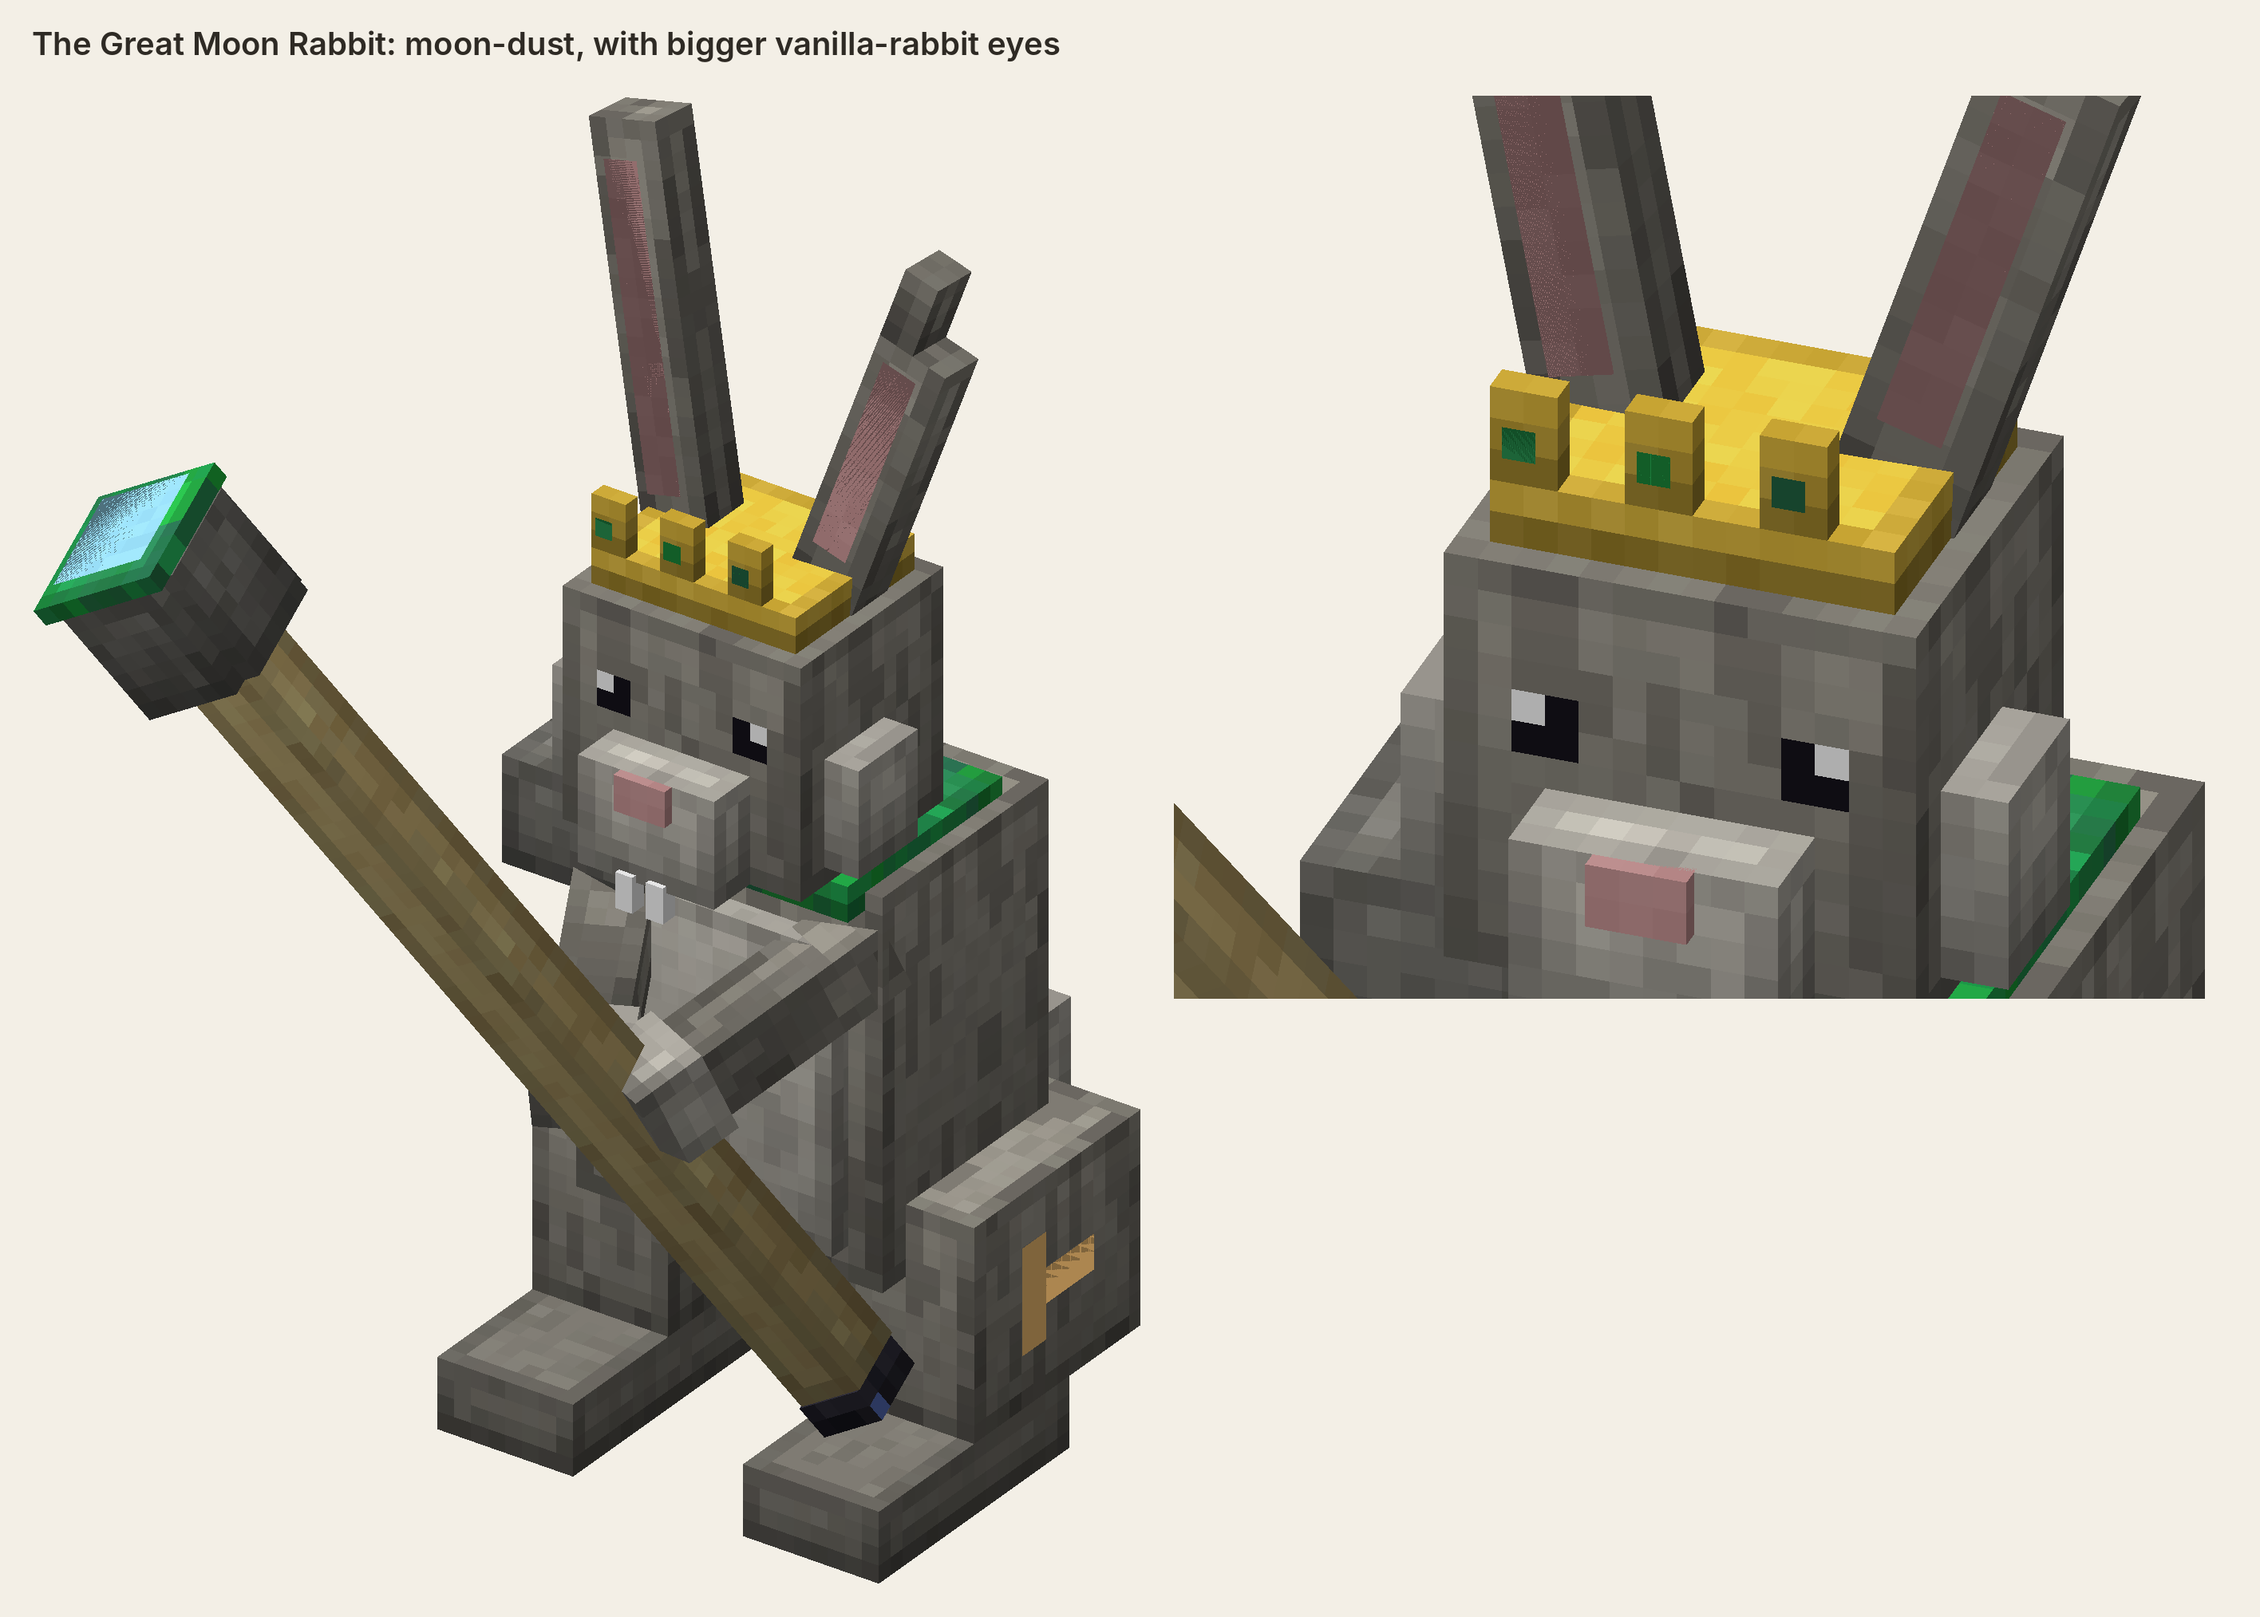
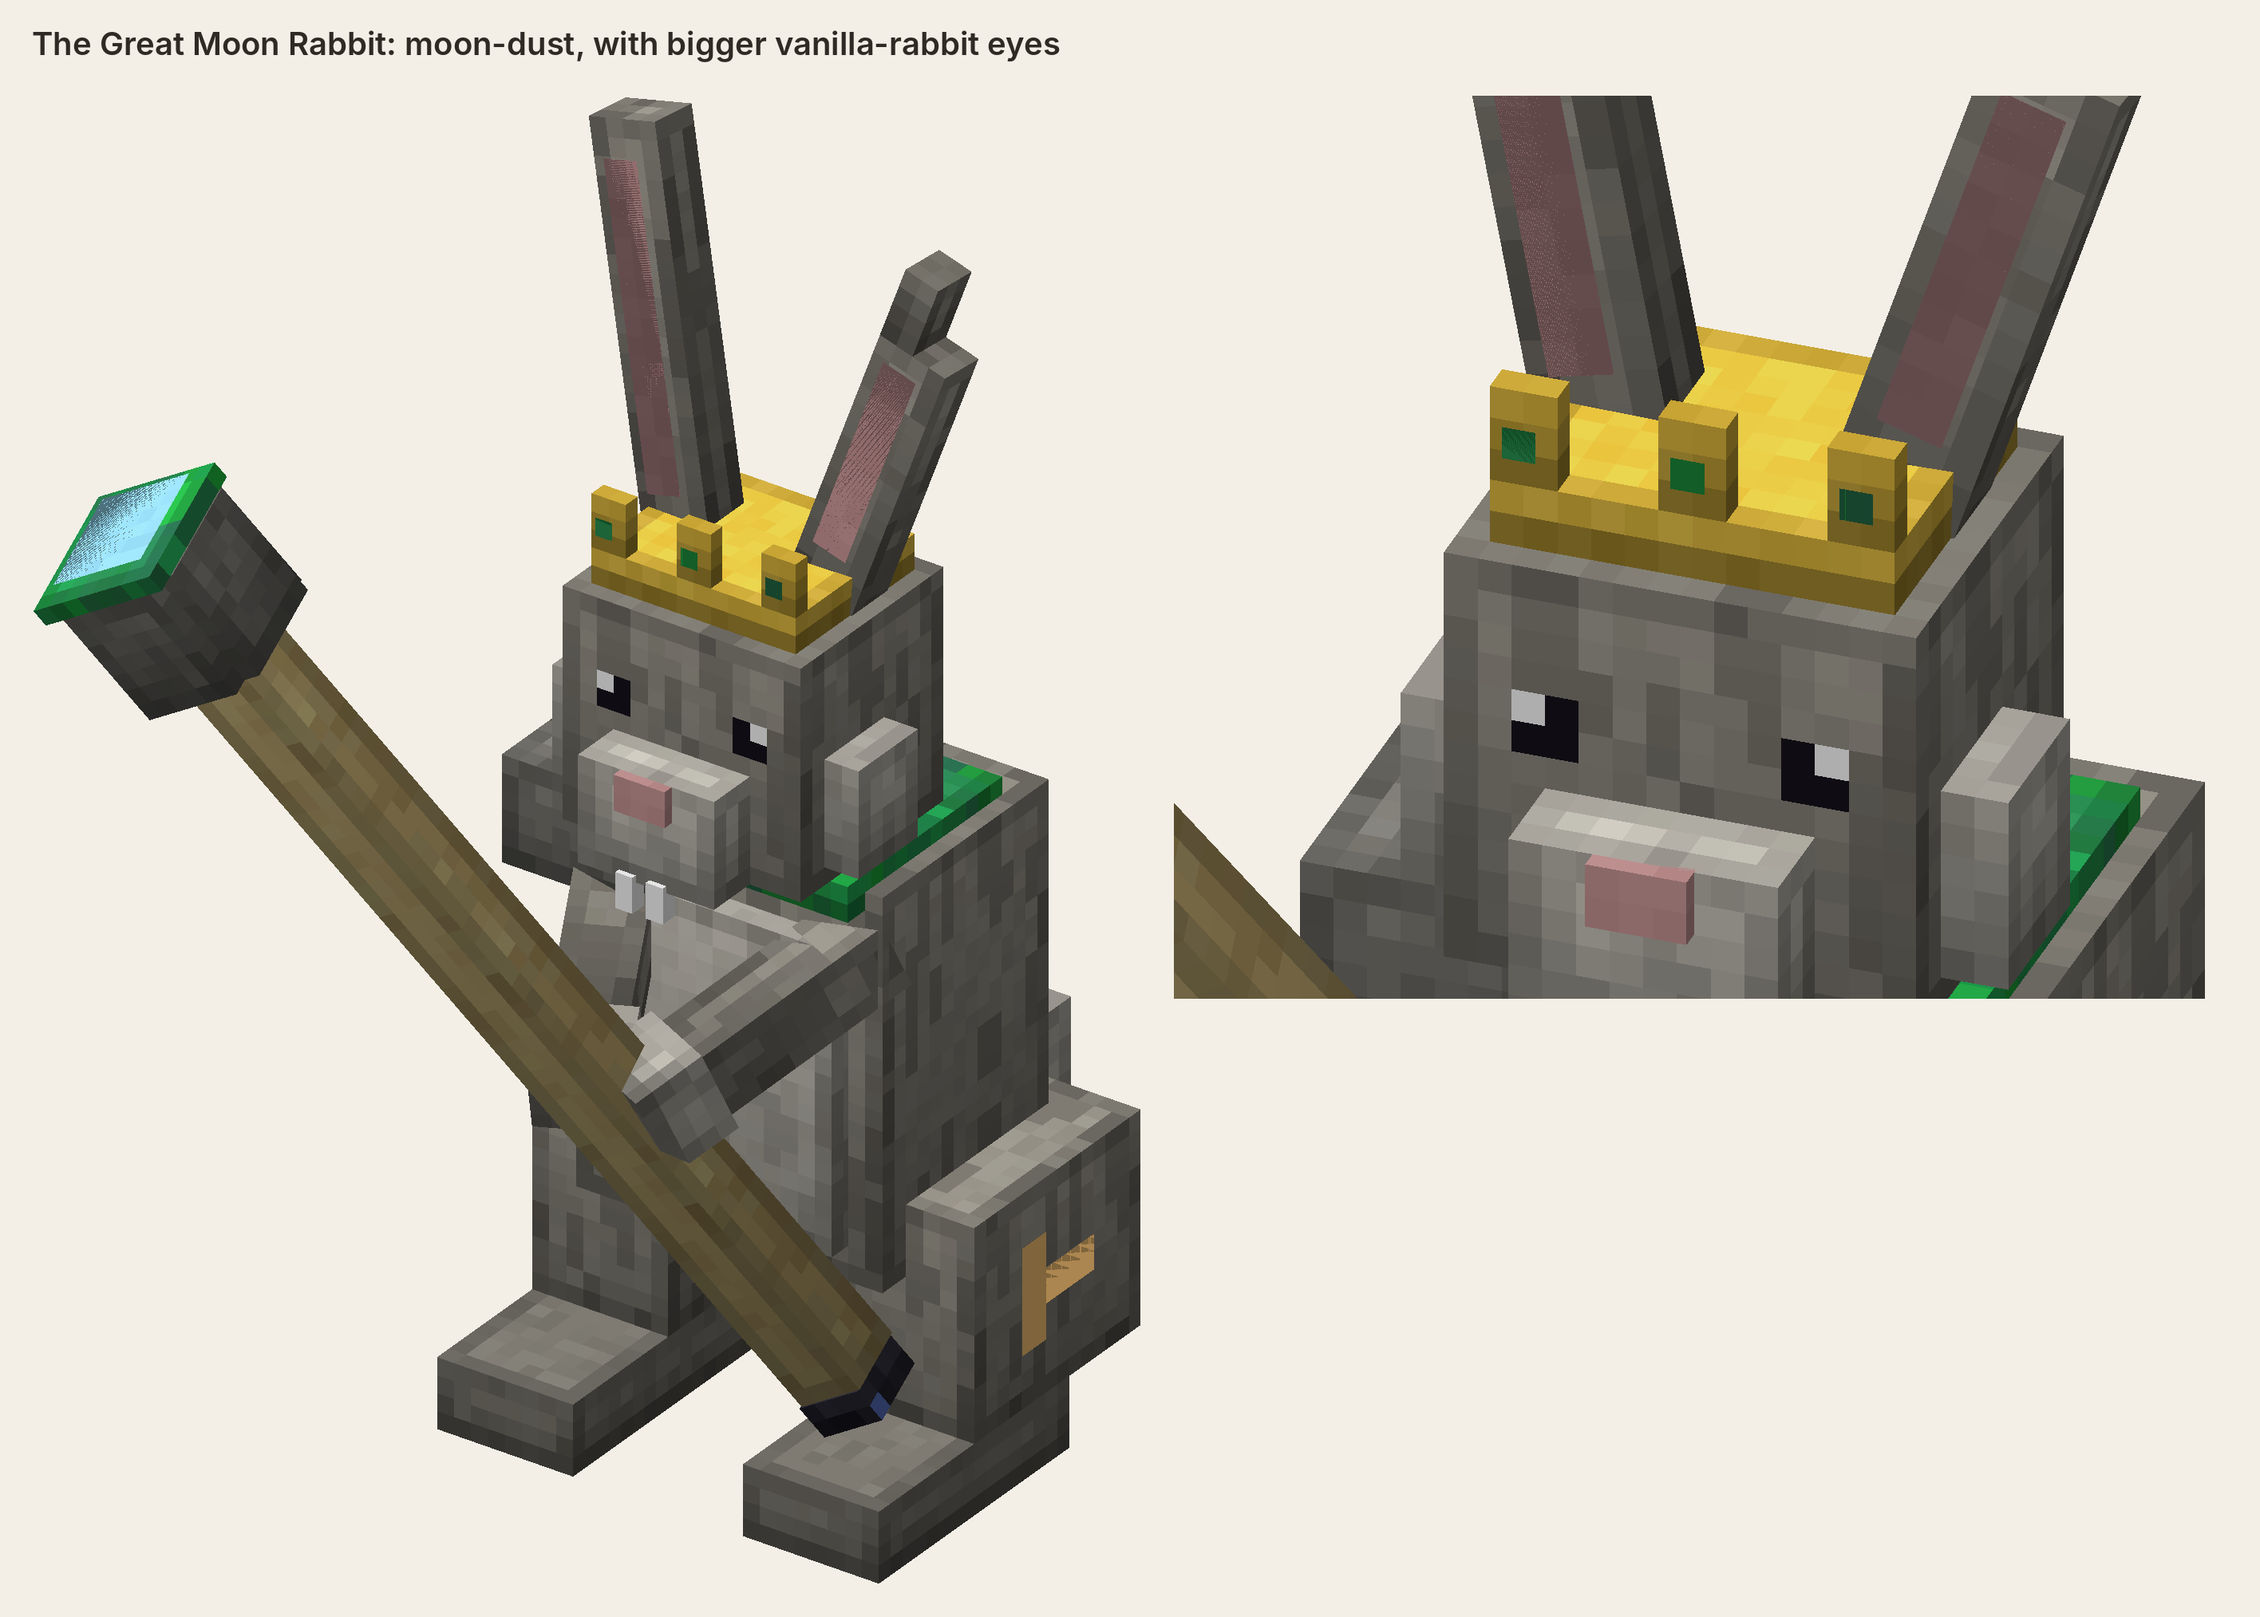
Moon rabbit's crown points evenly spaced and centred
The three points sat at x -6, -2 and 2 on a band running -6 to 6, so they leaned
to one side. Now -6, -1 and 4: the middle point centred over the face, the outer
two flush with the band's ends, jade studs with them. Concept picture redrawn.

Claude-Session: https://claude.ai/code/session_01M5QtgiQGYPBXfdb72XCowG

Changed region(s): [[0.7147, 0.2486, 0.8701, 0.3419], [0.2797, 0.3108, 0.3729, 0.404]]

diff --git a/tools/moon_boss_original.py b/tools/moon_boss_original.py
@@ -63,7 +63,7 @@ def rabbit(kind, eye_override=None, mark_override=None, eye_style=None):
     m.box(I, (-1.2, -14, -1.8), (2.4, 11, 0.4), part=e)
     # crown, shaded gold with jade
     m.box(GOLD, (-6, -4, -7), (12, 2, 10), **sh)
-    for x in (-6, -2, 2): m.box(GOLD, (x, -7, -7), (2, 3, 1), **sh); m.box(JADE, (x + 0.5, -6, -7.4), (1, 1, 0.4))
+    for x in (-6, -1, 4): m.box(GOLD, (x, -7, -7), (2, 3, 1), **sh); m.box(JADE, (x + 0.5, -6, -7.4), (1, 1, 0.4))   # evenly spaced: the middle point centred, the outer two flush with the band's ends
     # arms and the staff
     for sgn in (-1, 1):
         a = m.part([sgn * 7, 16, -3], (-1.15, sgn * 0.45, 0)); m.box(F, (-2, -1, -2), (4, 13, 4), part=a, **sh); m.box(B, (-2.5, 10, -2.5), (5, 4, 5), part=a, **sh)
